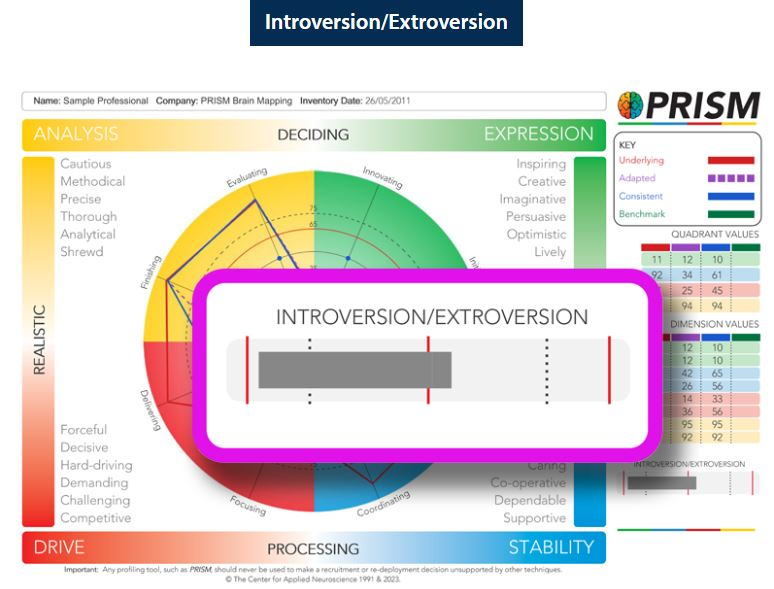
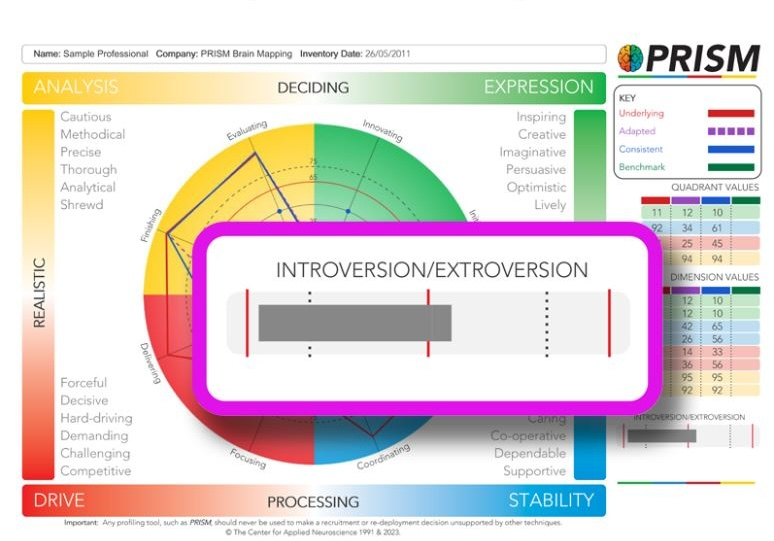
fix: review rapport

diff --git a/src/modules/components/viewer/viewer.tsx b/src/modules/components/viewer/viewer.tsx
@@ -147,6 +147,8 @@ const Viewer: React.FC<{
 
   // Get the current page data
   const currentPage = data?.pages[selectedPage - 1];
+  console.log("rapport aaa", currentPage);
+
   console.log("currentPage", currentPage);
   return (
     <div className="flex flex-col items-center  justify-center w-3/4 h-full">
@@ -181,7 +183,13 @@ const Viewer: React.FC<{
           </p>
         </div>
         {/* Clickable Image */}
-        <div onClick={openModal} className="cursor-pointer w-full">
+        <div
+          onClick={() => currentPage?.status !== "not included" && openModal()}
+          className={`cursor-pointer w-full ${
+            currentPage?.status === "not included"
+              ? "filter grayscale opacity-75 contrast-90"
+              : ""
+          }`}>
           <Image
             src={`/assets/${path}/${currentPage.image}`}
             alt="viewer"
